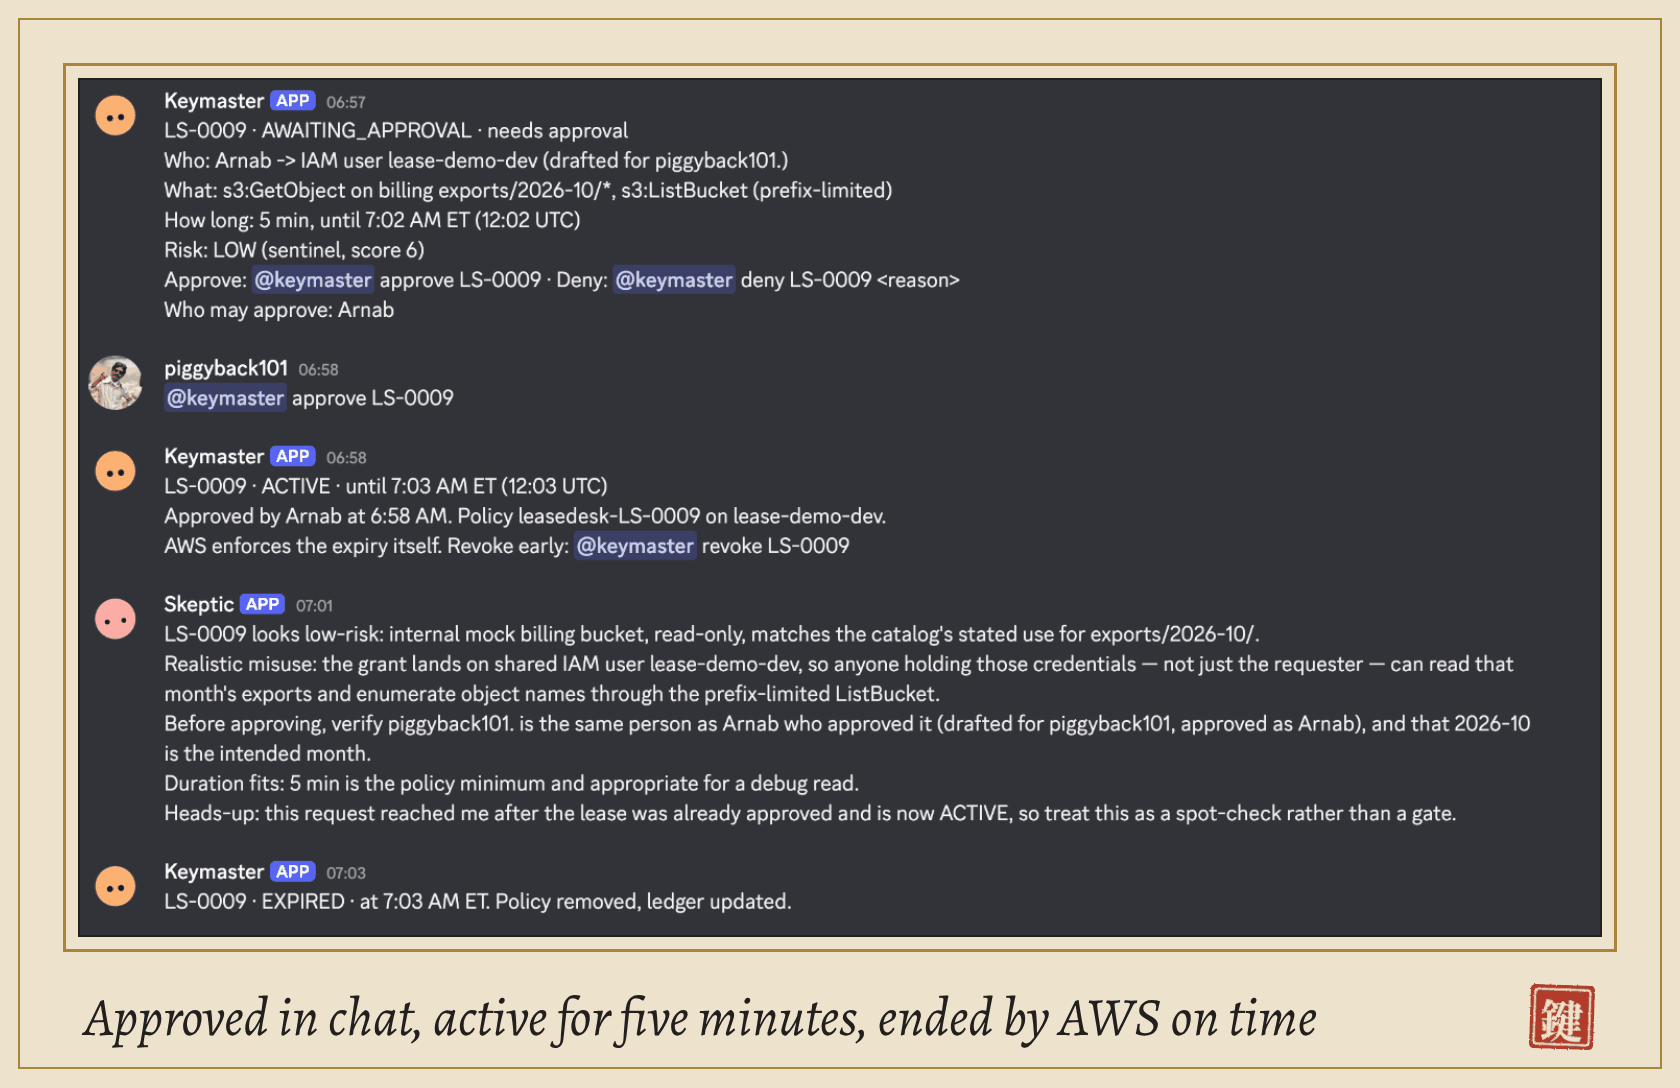
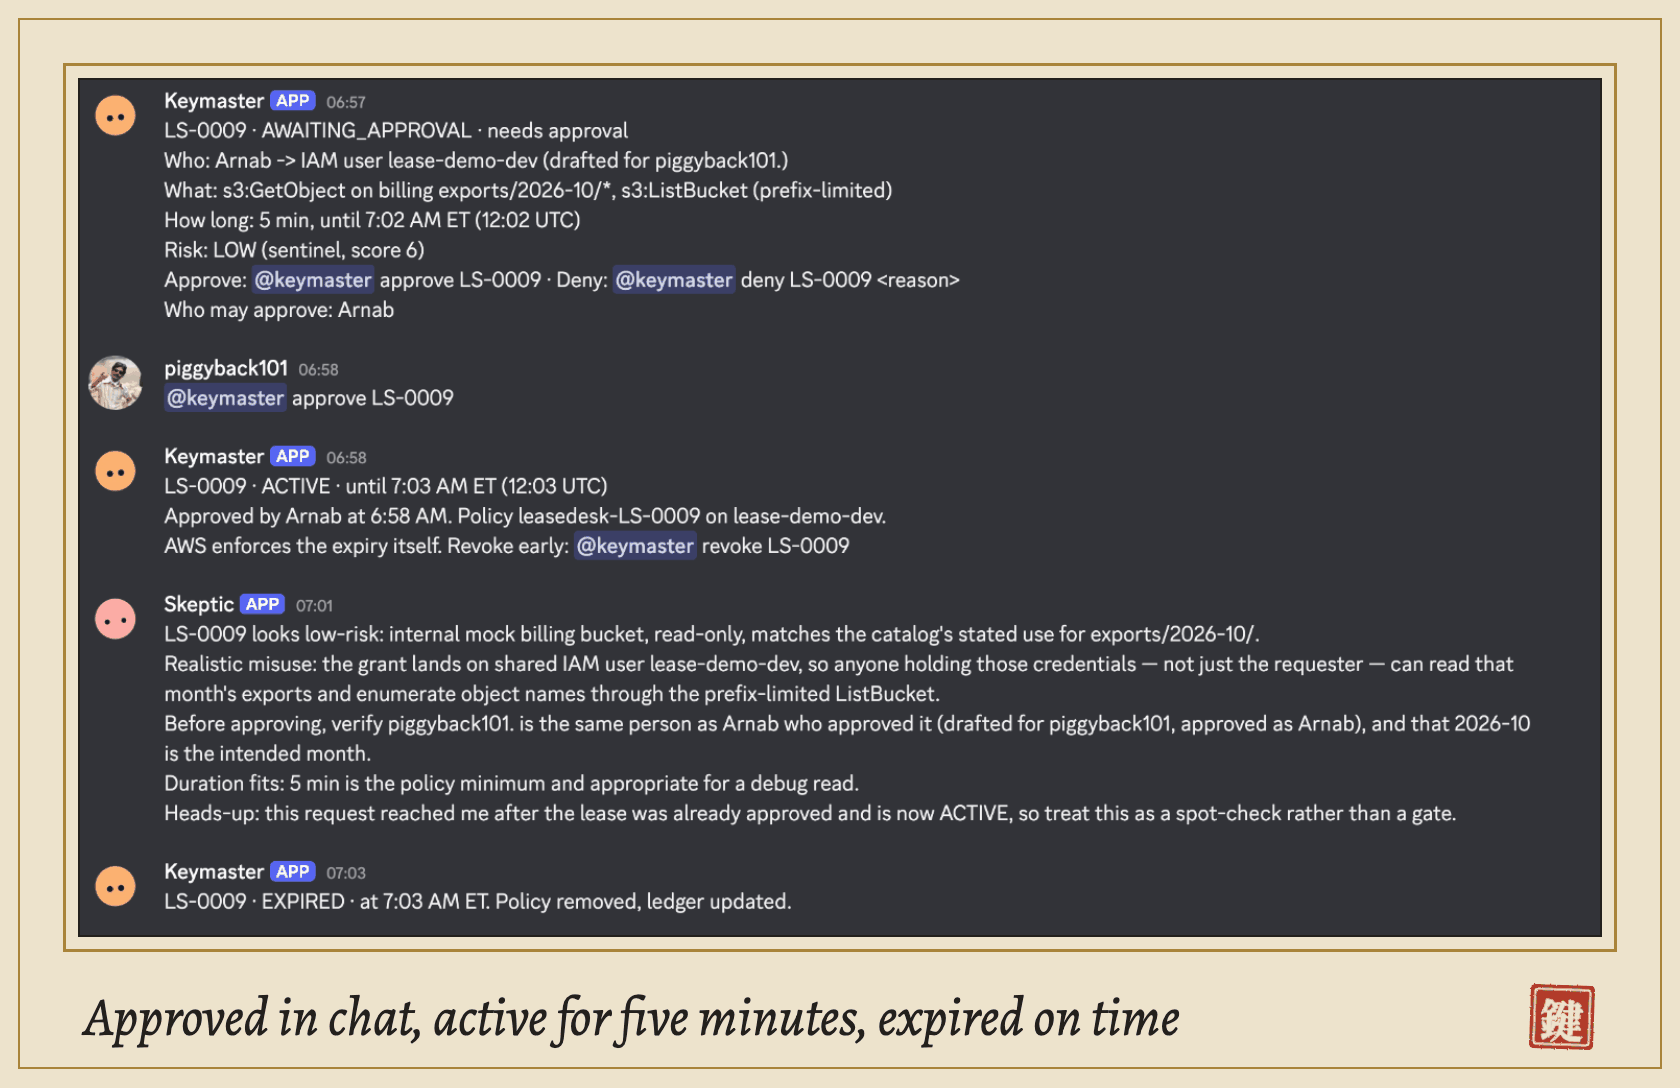
docs: fit the README and docs to the visual refresh

diff --git a/docs/SOCIAL.md b/docs/SOCIAL.md
@@ -12,10 +12,10 @@ Attach: a screenshot of #access-desk with a request and scribe's first draft (cr
 
 > Asked my access desk for iam:PassRole + lambda:CreateFunction. sentinel blocked it and named the privilege-escalation path. No LLM in the gate, just rules. #HowISwitch
 
-Attach: `docs/media/block.png`, sentinel's BLOCK with the `@sentinel explain` reply naming Rhino Security Labs method 15.
+Attach: `docs/media/print-block.png` (the framed print of `docs/media/block.png`), sentinel's BLOCK with the `@sentinel explain` reply naming Rhino Security Labs method 15.
 
 ## Saturday (launch)
 
-> LeaseDesk is live: ask for AWS access in chat, 4 agents on @SwitchAgents draft and review it, a person approves, and AWS ends it on time even if the agents are down. 3-min demo: <VIDEO_URL> Code: <REPO_URL> #HowISwitch
+> LeaseDesk is live: ask for AWS access in chat, 4 agents on @SwitchAgents draft and review it, a person approves, and AWS ends it on time even if the agents are down. 2-min demo: https://youtu.be/d0pSl1Rz9eI Code: https://github.com/singha105/leasedesk #HowISwitch
 
-Attach: `docs/media/leasedesk.gif` (about 50 seconds). Check the length after filling in the links (links count as 23 characters each on X), and check that @SwitchAgents is Switch's real handle before posting; drop it if not.
+Attach: `docs/media/leasedesk.gif` (about 50 seconds). The post is 243 characters on X (each link counts as 23); check that @SwitchAgents is Switch's real handle before posting; drop it if not.

diff --git a/docs/VIDEO_SCRIPT.md b/docs/VIDEO_SCRIPT.md
@@ -30,4 +30,5 @@ Adjusted to what the live scenarios showed on 2026-11-07 (docs/SCENARIOS.md). Ti
 - Add captions.
 - Upload to YouTube as unlisted, then open the link in a logged-out browser to check it plays.
 - Check the submission form for a length limit before the final cut.
-- The README GIF (`docs/media/leasedesk.gif`, about 50 seconds) is built from captures of the live runs. Swap in a cut of the video if you like; keep it under 10 MB.
+- The README GIF (`docs/media/leasedesk.gif`, about 50 seconds) is built from captures of the live runs. Rebuild it with `python3 scripts/design/make_gif.py`.
+- The submitted video (https://youtu.be/d0pSl1Rz9eI, 2 min 14 s, unlisted) is not a screen recording: it is the ten GIF frames at 1920x1080, one narration line per frame, read by the en-US-AndrewNeural voice (`edge-tts`) and joined with `ffmpeg`. Everything it shows comes from the live runs in docs/SCENARIOS.md. A screen recording that follows the script above can replace it.

diff --git a/README.md b/README.md
@@ -11,6 +11,8 @@ Just-in-time AWS access, asked for in plain English in a Switch room, approved b
 
 ![LeaseDesk in under a minute: a request in chat, a drafted policy, two reviewers, an approval, then access that expires on its own](docs/media/leasedesk.gif)
 
+The narrated two-minute walkthrough is on YouTube: [LeaseDesk demo](https://youtu.be/d0pSl1Rz9eI).
+
 ## The problem
 
 Engineers need short-lived cloud access to debug, and a ticket takes hours or days. So teams hand out standing admin access, and nobody takes it back. LeaseDesk keeps the whole loop in the chat the team already uses: AI drafts and critiques the request, a person decides, and the access ends at a time written into the IAM policy.
